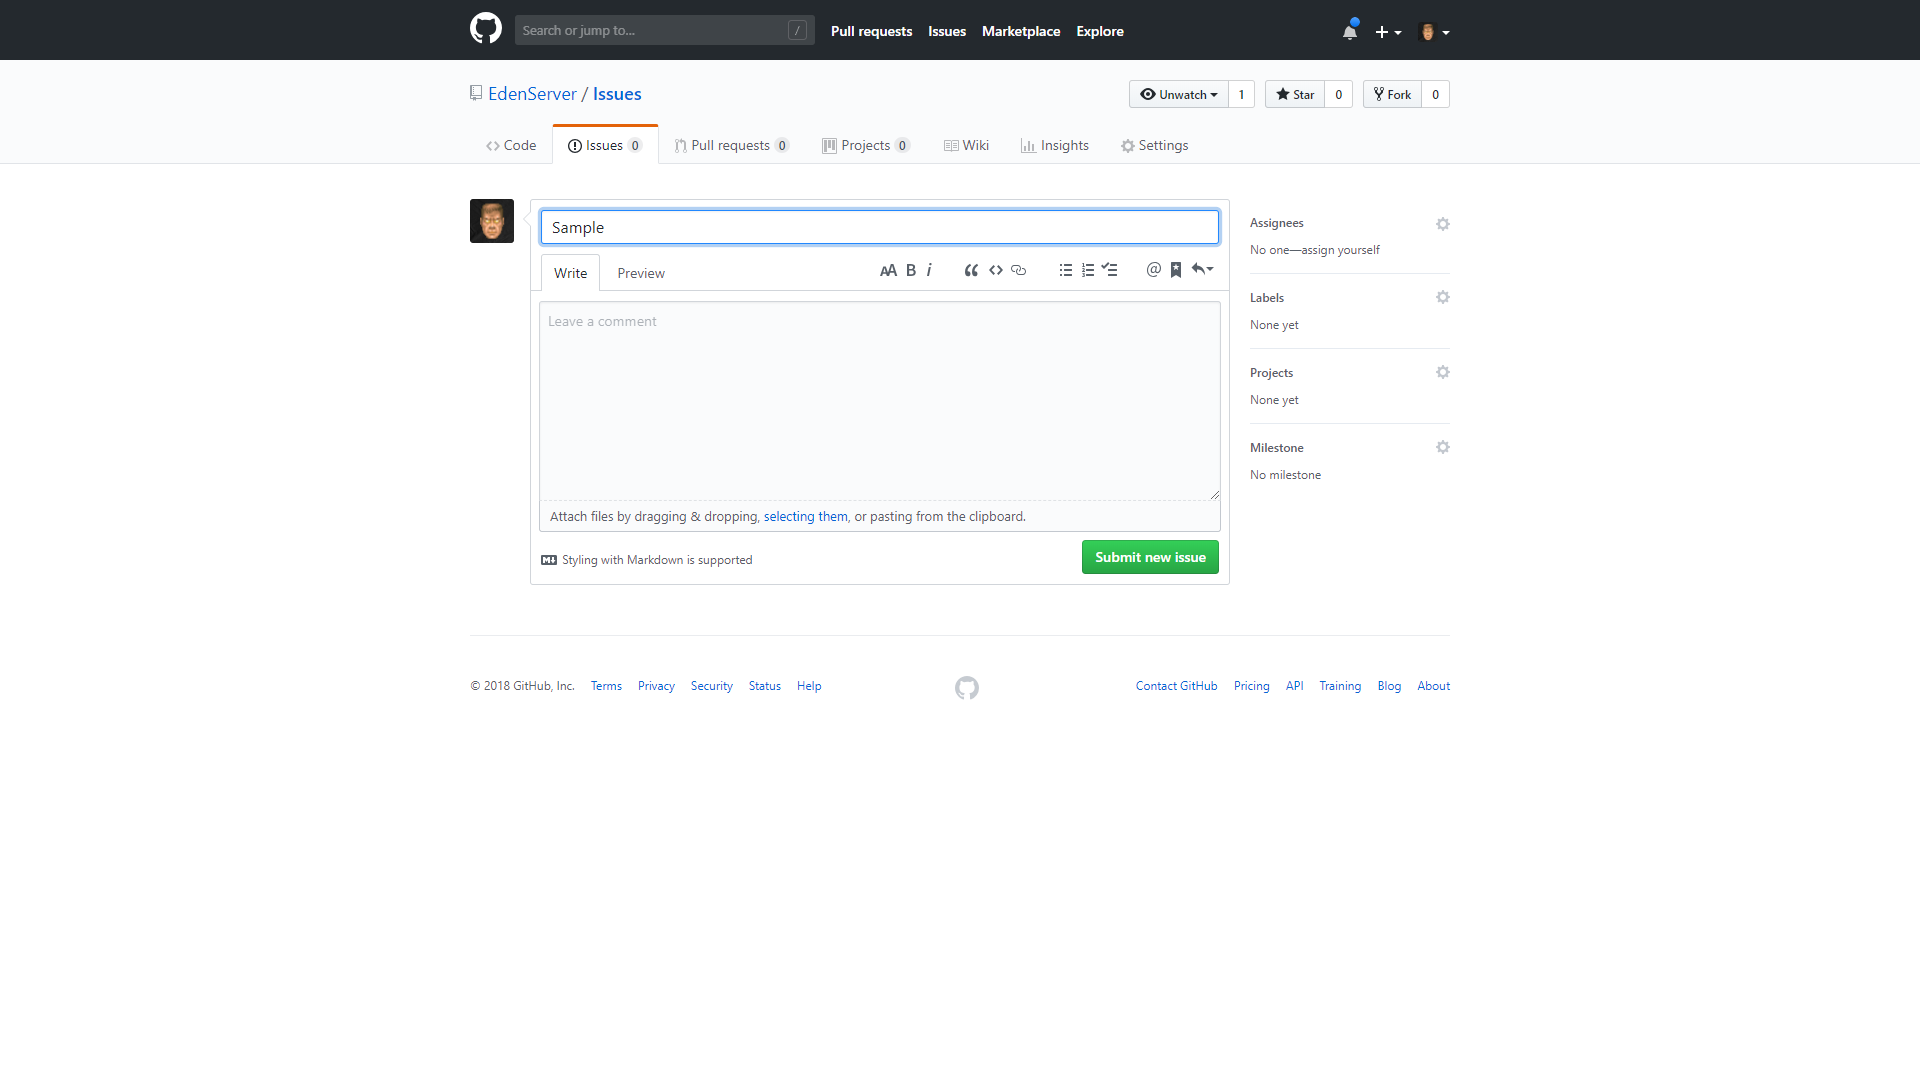
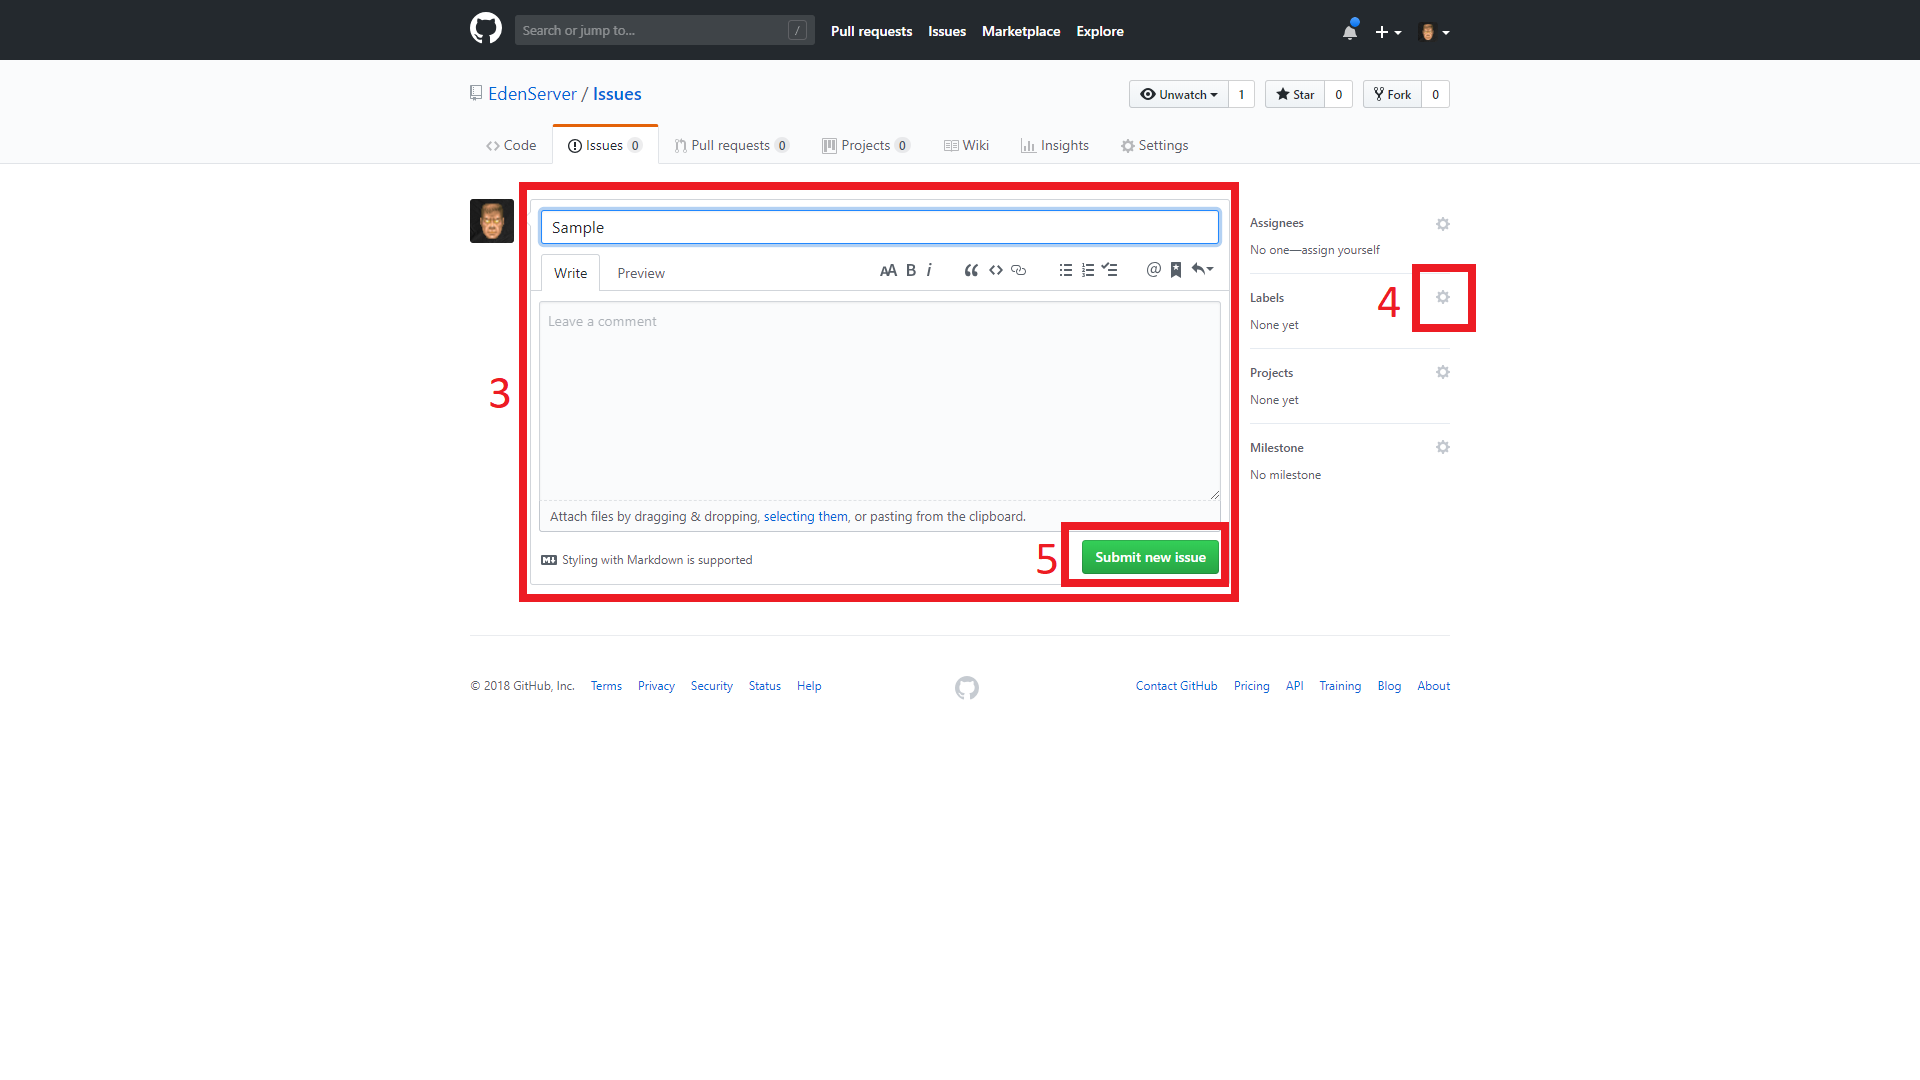
markup images

Changed region(s): [[0.25, 0.1528, 0.6562, 0.5806], [0.7188, 0.2444, 0.7812, 0.3056]]

diff --git a/README.md b/README.md
@@ -4,12 +4,12 @@
 
 2. Click New Issue
 
-3. Fill out the required data in the template and as much optional data as possible
+3. Fill as much data as possible to help us figure out the problem. More details means it's more likely to get fixed and you can always update your report later if you remember something.
 
 4. Attach the appropriate labels
 
 5. Click Submit
 
-![Step 1](https://raw.githubusercontent.com/EdenServer/Issues/step1.png)
+![Step 1](https://raw.githubusercontent.com/EdenServer/Issues/master/step1.png)
 
-![Step 2](https://raw.githubusercontent.com/EdenServer/Issues/step2.png)
+![Step 2](https://raw.githubusercontent.com/EdenServer/Issues/master/step2.png)
